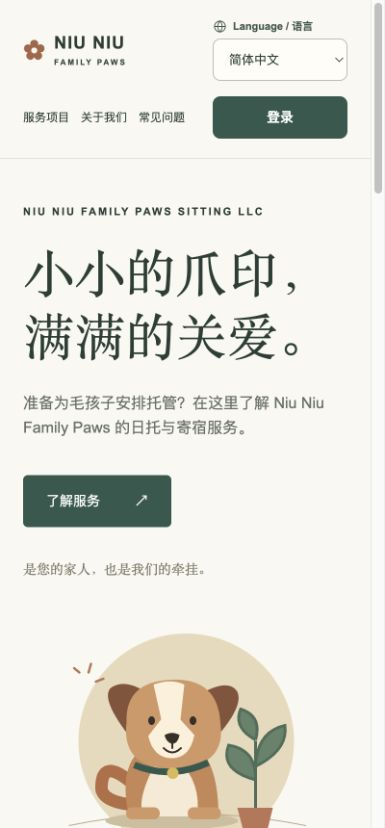
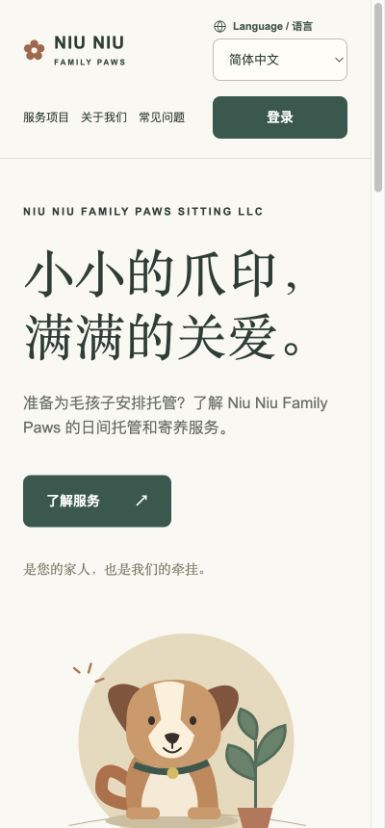
Use natural Chinese pet-care terms

Changed region(s): [[0.0935, 0.4529, 0.8416, 0.5435], [0.1558, 0.5737, 0.2494, 0.6341]]

diff --git a/apps/web/src/main.tsx b/apps/web/src/main.tsx
@@ -17,11 +17,11 @@ const en = {
 };
 const zh: typeof en = {
   skip:'跳至正文', services:'服务项目', approach:'关于我们', questions:'常见问题', contact:'联系我们', signIn:'登录',
-  eyebrow:'NIU NIU FAMILY PAWS SITTING LLC', title:'小小的爪印，\n满满的关爱。', intro:'准备为毛孩子安排托管？在这里了解 Niu Niu Family Paws 的日托与寄宿服务。', explore:'了解服务', note:'是您的家人，也是我们的牵挂。',
-  servicesLabel:'日托与寄宿', servicesTitle:'您安心出门，\n它也有好安排。', servicesIntro:'先了解服务，再确认日期、照护安排和费用。',
-  day:'宠物日托', dayTag:'白天的陪伴', dayDescription:'白天需要有人照顾宠物？请先确认可安排的日期，并沟通它的日常习惯和照护需求。', night:'宠物寄宿', nightTag:'过夜的安排', nightDescription:'需要出门过夜？请提前确认寄宿日期，并沟通宠物的作息和照护安排。', price:'价格和套餐详情确认后会在这里公布。',
+  eyebrow:'NIU NIU FAMILY PAWS SITTING LLC', title:'小小的爪印，\n满满的关爱。', intro:'准备为毛孩子安排托管？了解 Niu Niu Family Paws 的日间托管和寄养服务。', explore:'了解服务', note:'是您的家人，也是我们的牵挂。',
+  servicesLabel:'日间托管与寄养', servicesTitle:'您安心出门，\n它也有好安排。', servicesIntro:'先了解服务，再确认日期、照护安排和费用。',
+  day:'日间托管', dayTag:'白天的陪伴', dayDescription:'白天需要有人照顾宠物？请先确认可安排的日期，并沟通它的日常习惯和照护需求。', night:'过夜寄养', nightTag:'过夜的安排', nightDescription:'需要出门过夜？请提前确认寄养日期，并沟通宠物的作息和照护安排。', price:'价格和套餐详情确认后会在这里公布。',
   aboutLabel:'了解您的毛孩子', aboutTitle:'多了解一点，\n住得更安心。', aboutBody:'每只宠物都有自己的习惯。请告诉我们托管日期、日常作息，以及能让它放松的小细节，并在托管前确认好照护安排。',
-  step1:'介绍您的宠物', step1Body:'准备好宠物的名字、年龄、日常习惯和照护需求。', step2:'计划托管时间', step2Body:'想好托管日期，以及需要日托还是寄宿。', step3:'确认具体安排', step3Body:'托管前，请确认日期、费用和交接安排。',
+  step1:'介绍您的宠物', step1Body:'准备好宠物的名字、年龄、日常习惯和照护需求。', step2:'计划托管时间', step2Body:'想好托管日期，以及需要白天照护还是过夜寄养。', step3:'确认具体安排', step3Body:'托管前，请确认日期、费用和交接安排。',
   faqLabel:'托管前先了解', faqTitle:'常见问题', q1:'如何安排托管？', a1:'请先准备宠物资料和希望托管的日期。联系方式确认后会在这里公布，目前还不能通过网站预约。', q2:'在哪里查看价格与套餐？', a2:'价格和套餐规则还在确认中，确定后会在这里公布。', q3:'需要提供哪些宠物资料？', a3:'请告诉我们宠物的日常作息、喂食习惯、用药情况和特殊照护需求，并在预约前确认具体安排。',
   contactLabel:'联系我们', contactTitle:'下次托管，\n从这里开始。', contactBody:'联系方式和服务地点确认后，会在这里公布。', pending:'联系方式待公布', footer:'Niu Niu Family Paws Sitting LLC', footerNote:'用心陪伴每一个小爪印。', illustration:'一只小狗在植物旁休息的插画',
 };
